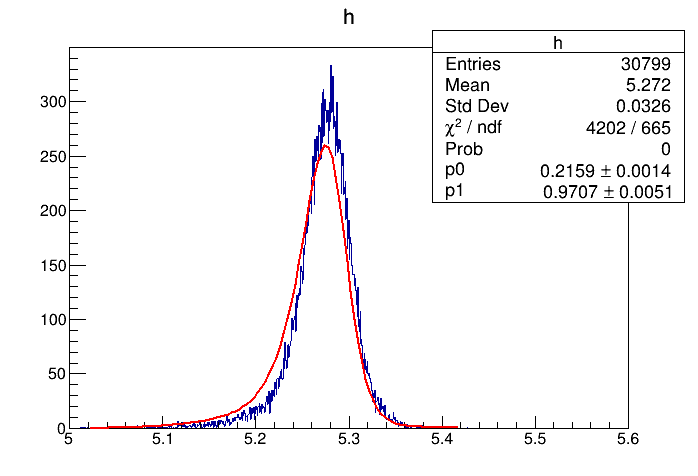
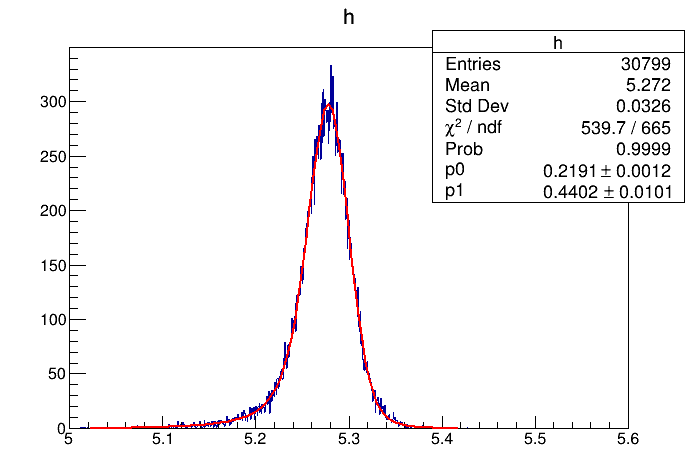
fixed fit on pi template

diff --git a/template_fit/template_functions.py b/template_fit/template_functions.py
@@ -69,7 +69,7 @@ def BreitWigner(LowLim, UpLim, funcname='BW', pars=(2000, 5.28, 0.5)):
 
 
 def DoubleGaussian(LowLim, UpLim, funcname='DoubleGaussian',
-                   pars=(1.4e5, 0.5, 5.28, 0.02, 5.28, 0.02)):
+                   pars=(1.4e5, 0.6, 5.28, 0.04, 5.29, 0.02)):
     """
     Returns a TF1 function corresponding to a weighted sum of two Gaussians;
     its expression is written in a C++ shared library and is imported in the
